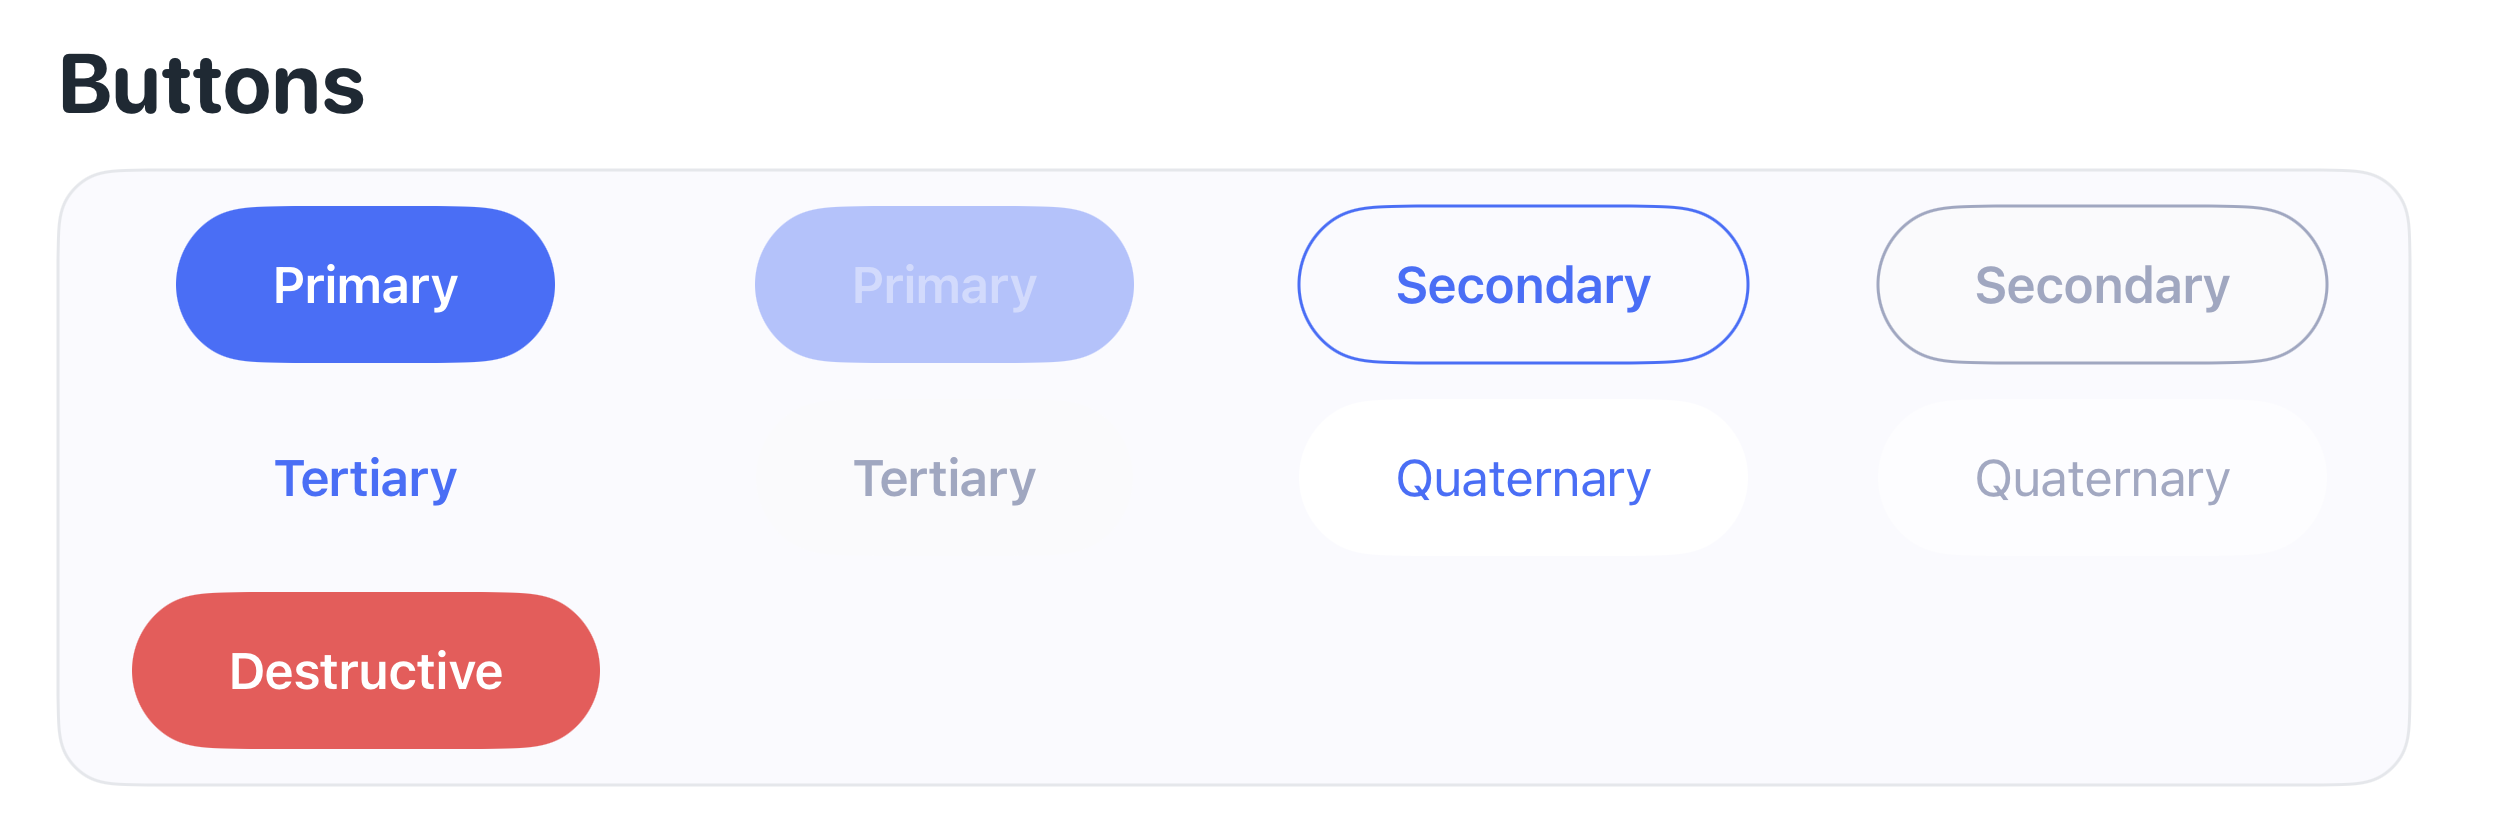
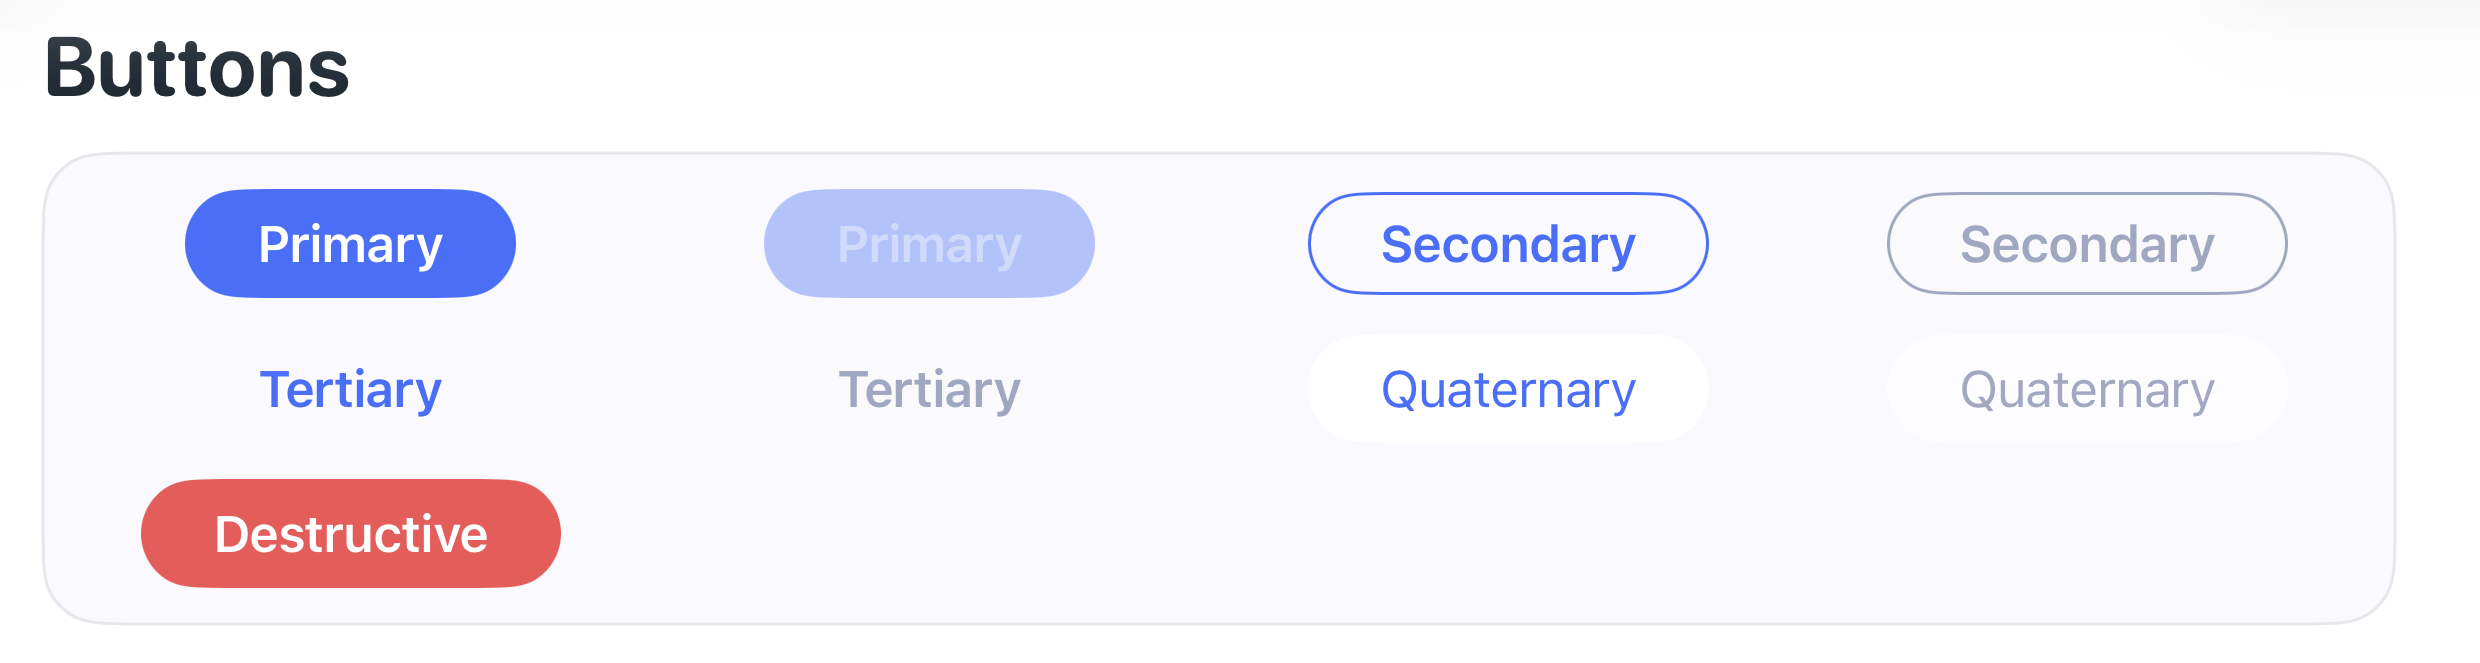
feature: add button title text roles (#16)

diff --git a/Sources/GentleDesignSystem/GentleDesignSystem.swift b/Sources/GentleDesignSystem/GentleDesignSystem.swift
@@ -39,6 +39,12 @@ public enum GentleTextRole: String, Identifiable, Codable, Sendable, CaseIterabl
     case footnote_s
     case caption_s
     case caption2_s
+
+    // Button titles – semantic roles for button text
+    case primaryButtonTitle_m
+    case secondaryButtonTitle_m
+    case tertiaryButtonTitle_m
+    case quaternaryButtonTitle_m
 }
 
 public enum GentleTextRamp: String, Codable, Sendable { case xxl, xl, l, ml, m, ms, s }
@@ -50,7 +56,8 @@ public extension GentleTextRole {
         case .title_xl: return .xl
         case .title2_l: return .l
         case .title3_ml: return .ml
-        case .headline_m, .body_m, .bodySecondary_m, .monoCode_m: return .m
+        case .headline_m, .body_m, .bodySecondary_m, .monoCode_m,
+             .primaryButtonTitle_m, .secondaryButtonTitle_m, .tertiaryButtonTitle_m, .quaternaryButtonTitle_m: return .m
         case .callout_ms, .subheadline_ms: return .ms
         case .footnote_s, .caption_s, .caption2_s: return .s
         }
@@ -72,6 +79,10 @@ public extension GentleTextRole {
         case .footnote_s: return "Footnote"
         case .caption_s: return "Caption"
         case .caption2_s: return "Caption 2"
+        case .primaryButtonTitle_m: return "Primary Button Title"
+        case .secondaryButtonTitle_m: return "Secondary Button Title"
+        case .tertiaryButtonTitle_m: return "Tertiary Button Title"
+        case .quaternaryButtonTitle_m: return "Quaternary Button Title"
         }
     }
 }
@@ -342,6 +353,23 @@ public extension GentleDesignSystemSpec {
             pointSize: 17, weight: .regular, design: .default, width: nil,
             relativeTo: .body, lineSpacing: 3, colorRole: .textPrimary
         )
+        // Button titles – use default (not serif) for buttons
+        typo.roles[GentleTextRole.primaryButtonTitle_m.rawValue] = .init(
+            pointSize: 17, weight: .semibold, design: .default, width: nil,
+            relativeTo: .headline, colorRole: .textPrimary
+        )
+        typo.roles[GentleTextRole.secondaryButtonTitle_m.rawValue] = .init(
+            pointSize: 17, weight: .semibold, design: .default, width: nil,
+            relativeTo: .headline, colorRole: .textPrimary
+        )
+        typo.roles[GentleTextRole.tertiaryButtonTitle_m.rawValue] = .init(
+            pointSize: 17, weight: .semibold, design: .default, width: nil,
+            relativeTo: .headline, colorRole: .textPrimary
+        )
+        typo.roles[GentleTextRole.quaternaryButtonTitle_m.rawValue] = .init(
+            pointSize: 17, weight: .regular, design: .default, width: nil,
+            relativeTo: .body, colorRole: .textPrimary
+        )
         spec.typography = typo
         return spec
     }()
@@ -392,6 +420,23 @@ public extension GentleDesignSystemSpec {
         typo.roles[GentleTextRole.body_m.rawValue] = .init(
             pointSize: 16, weight: .regular, design: .default, width: nil,
             relativeTo: .body, lineSpacing: 3, colorRole: .textPrimary
+        )
+        // Button titles – clean default design with medium weight
+        typo.roles[GentleTextRole.primaryButtonTitle_m.rawValue] = .init(
+            pointSize: 16, weight: .medium, design: .default, width: nil,
+            relativeTo: .headline, colorRole: .textPrimary
+        )
+        typo.roles[GentleTextRole.secondaryButtonTitle_m.rawValue] = .init(
+            pointSize: 16, weight: .medium, design: .default, width: nil,
+            relativeTo: .headline, colorRole: .textPrimary
+        )
+        typo.roles[GentleTextRole.tertiaryButtonTitle_m.rawValue] = .init(
+            pointSize: 16, weight: .medium, design: .default, width: nil,
+            relativeTo: .headline, colorRole: .textPrimary
+        )
+        typo.roles[GentleTextRole.quaternaryButtonTitle_m.rawValue] = .init(
+            pointSize: 16, weight: .regular, design: .default, width: nil,
+            relativeTo: .body, colorRole: .textPrimary
         )
         spec.typography = typo
         return spec
@@ -456,6 +501,23 @@ public extension GentleDesignSystemSpec {
             pointSize: 15, weight: .regular, design: .rounded, width: nil,
             relativeTo: .subheadline, colorRole: .textSecondary
         )
+        // Button titles – rounded design to match the soft theme
+        typo.roles[GentleTextRole.primaryButtonTitle_m.rawValue] = .init(
+            pointSize: 17, weight: .semibold, design: .rounded, width: nil,
+            relativeTo: .headline, colorRole: .textPrimary
+        )
+        typo.roles[GentleTextRole.secondaryButtonTitle_m.rawValue] = .init(
+            pointSize: 17, weight: .semibold, design: .rounded, width: nil,
+            relativeTo: .headline, colorRole: .textPrimary
+        )
+        typo.roles[GentleTextRole.tertiaryButtonTitle_m.rawValue] = .init(
+            pointSize: 17, weight: .semibold, design: .rounded, width: nil,
+            relativeTo: .headline, colorRole: .textPrimary
+        )
+        typo.roles[GentleTextRole.quaternaryButtonTitle_m.rawValue] = .init(
+            pointSize: 17, weight: .regular, design: .rounded, width: nil,
+            relativeTo: .body, colorRole: .textPrimary
+        )
         spec.typography = typo
         return spec
     }()
@@ -515,6 +577,23 @@ public extension GentleDesignSystemSpec {
             pointSize: 16, weight: .regular, design: .serif, width: nil,
             relativeTo: .callout, colorRole: .textSecondary
         )
+        // Button titles – use default (not serif) for buttons
+        typo.roles[GentleTextRole.primaryButtonTitle_m.rawValue] = .init(
+            pointSize: 17, weight: .bold, design: .default, width: nil,
+            relativeTo: .headline, colorRole: .textPrimary
+        )
+        typo.roles[GentleTextRole.secondaryButtonTitle_m.rawValue] = .init(
+            pointSize: 17, weight: .bold, design: .default, width: nil,
+            relativeTo: .headline, colorRole: .textPrimary
+        )
+        typo.roles[GentleTextRole.tertiaryButtonTitle_m.rawValue] = .init(
+            pointSize: 17, weight: .semibold, design: .default, width: nil,
+            relativeTo: .headline, colorRole: .textPrimary
+        )
+        typo.roles[GentleTextRole.quaternaryButtonTitle_m.rawValue] = .init(
+            pointSize: 17, weight: .regular, design: .default, width: nil,
+            relativeTo: .body, colorRole: .textPrimary
+        )
         spec.typography = typo
         return spec
     }()
@@ -569,6 +648,23 @@ public extension GentleDesignSystemSpec {
         typo.roles[GentleTextRole.monoCode_m.rawValue] = .init(
             pointSize: 14, weight: .regular, design: .monospaced, width: nil,
             relativeTo: .body, letterSpacing: 0, colorRole: .textPrimary
+        )
+        // Button titles – condensed default design (monospaced would be too wide for buttons)
+        typo.roles[GentleTextRole.primaryButtonTitle_m.rawValue] = .init(
+            pointSize: 15, weight: .semibold, design: .default, width: .condensed,
+            relativeTo: .headline, colorRole: .textPrimary
+        )
+        typo.roles[GentleTextRole.secondaryButtonTitle_m.rawValue] = .init(
+            pointSize: 15, weight: .semibold, design: .default, width: .condensed,
+            relativeTo: .headline, colorRole: .textPrimary
+        )
+        typo.roles[GentleTextRole.tertiaryButtonTitle_m.rawValue] = .init(
+            pointSize: 15, weight: .semibold, design: .default, width: .condensed,
+            relativeTo: .headline, colorRole: .textPrimary
+        )
+        typo.roles[GentleTextRole.quaternaryButtonTitle_m.rawValue] = .init(
+            pointSize: 15, weight: .regular, design: .default, width: .condensed,
+            relativeTo: .body, colorRole: .textPrimary
         )
         spec.typography = typo
         return spec
@@ -625,6 +721,23 @@ public extension GentleDesignSystemSpec {
             pointSize: 17, weight: .medium, design: .default, width: nil,
             relativeTo: .body, lineSpacing: 2, colorRole: .textSecondary
         )
+        // Button titles – bold/heavy weights to match the bold theme
+        typo.roles[GentleTextRole.primaryButtonTitle_m.rawValue] = .init(
+            pointSize: 17, weight: .heavy, design: .default, width: nil,
+            relativeTo: .headline, colorRole: .textPrimary
+        )
+        typo.roles[GentleTextRole.secondaryButtonTitle_m.rawValue] = .init(
+            pointSize: 17, weight: .bold, design: .default, width: nil,
+            relativeTo: .headline, colorRole: .textPrimary
+        )
+        typo.roles[GentleTextRole.tertiaryButtonTitle_m.rawValue] = .init(
+            pointSize: 17, weight: .bold, design: .default, width: nil,
+            relativeTo: .headline, colorRole: .textPrimary
+        )
+        typo.roles[GentleTextRole.quaternaryButtonTitle_m.rawValue] = .init(
+            pointSize: 17, weight: .medium, design: .default, width: nil,
+            relativeTo: .body, colorRole: .textPrimary
+        )
         spec.typography = typo
         return spec
     }()
@@ -679,6 +792,23 @@ public extension GentleDesignSystemSpec {
         typo.roles[GentleTextRole.bodySecondary_m.rawValue] = .init(
             pointSize: 17, weight: .light, design: .default, width: nil,
             relativeTo: .body, lineSpacing: 4, letterSpacing: 0.2, colorRole: .textSecondary
+        )
+        // Button titles – light/regular weights with letter spacing for elegance
+        typo.roles[GentleTextRole.primaryButtonTitle_m.rawValue] = .init(
+            pointSize: 17, weight: .regular, design: .default, width: nil,
+            relativeTo: .headline, letterSpacing: 0.5, colorRole: .textPrimary
+        )
+        typo.roles[GentleTextRole.secondaryButtonTitle_m.rawValue] = .init(
+            pointSize: 17, weight: .regular, design: .default, width: nil,
+            relativeTo: .headline, letterSpacing: 0.5, colorRole: .textPrimary
+        )
+        typo.roles[GentleTextRole.tertiaryButtonTitle_m.rawValue] = .init(
+            pointSize: 17, weight: .regular, design: .default, width: nil,
+            relativeTo: .headline, letterSpacing: 0.3, colorRole: .textPrimary
+        )
+        typo.roles[GentleTextRole.quaternaryButtonTitle_m.rawValue] = .init(
+            pointSize: 17, weight: .light, design: .default, width: nil,
+            relativeTo: .body, letterSpacing: 0.2, colorRole: .textPrimary
         )
         spec.typography = typo
         return spec
@@ -754,6 +884,23 @@ public extension GentleDesignSystemSpec {
         typo.roles[GentleTextRole.caption2_s.rawValue] = .init(
             pointSize: 9, weight: .regular, design: .default, width: .condensed,
             relativeTo: .caption2, colorRole: .textTertiary
+        )
+        // Button titles – condensed design to match the compact theme
+        typo.roles[GentleTextRole.primaryButtonTitle_m.rawValue] = .init(
+            pointSize: 14, weight: .semibold, design: .default, width: .condensed,
+            relativeTo: .headline, colorRole: .textPrimary
+        )
+        typo.roles[GentleTextRole.secondaryButtonTitle_m.rawValue] = .init(
+            pointSize: 14, weight: .semibold, design: .default, width: .condensed,
+            relativeTo: .headline, colorRole: .textPrimary
+        )
+        typo.roles[GentleTextRole.tertiaryButtonTitle_m.rawValue] = .init(
+            pointSize: 14, weight: .semibold, design: .default, width: .condensed,
+            relativeTo: .headline, colorRole: .textPrimary
+        )
+        typo.roles[GentleTextRole.quaternaryButtonTitle_m.rawValue] = .init(
+            pointSize: 14, weight: .regular, design: .default, width: .condensed,
+            relativeTo: .body, colorRole: .textPrimary
         )
         spec.typography = typo
         return spec
@@ -921,7 +1068,7 @@ public extension GentleButtonTokens {
         roles: [
             GentleButtonRole.primary.rawValue: .init(
                 shape: .pill,
-                textRole: .headline_m,
+                textRole: .primaryButtonTitle_m,
                 backgroundRole: .primaryCTA,
                 labelColorRole: .onPrimaryCTA,
                 borderRole: nil,
@@ -931,7 +1078,7 @@ public extension GentleButtonTokens {
             ),
             GentleButtonRole.secondary.rawValue: .init(
                 shape: .pill,
-                textRole: .headline_m,
+                textRole: .secondaryButtonTitle_m,
                 backgroundRole: .surface,
                 labelColorRole: .primaryCTA,
                 borderRole: .primaryCTA,
@@ -941,7 +1088,7 @@ public extension GentleButtonTokens {
             ),
             GentleButtonRole.tertiary.rawValue: .init(
                 shape: .pill,
-                textRole: .headline_m,
+                textRole: .tertiaryButtonTitle_m,
                 backgroundRole: .surface,
                 labelColorRole: .primaryCTA,
                 borderRole: nil,
@@ -951,7 +1098,7 @@ public extension GentleButtonTokens {
             ),
             GentleButtonRole.quaternary.rawValue: .init(
                 shape: .pill,
-                textRole: .body_m,
+                textRole: .quaternaryButtonTitle_m,
                 backgroundRole: .background,
                 labelColorRole: .primaryCTA,
                 borderRole: nil,
@@ -961,7 +1108,7 @@ public extension GentleButtonTokens {
             ),
             GentleButtonRole.destructive.rawValue: .init(
                 shape: .pill,
-                textRole: .headline_m,
+                textRole: .primaryButtonTitle_m,
                 backgroundRole: .destructive,
                 labelColorRole: .onPrimaryCTA,
                 borderRole: nil,
@@ -1176,6 +1323,24 @@ public extension GentleTypographyTokens {
         dict[GentleTextRole.caption2_s.rawValue] = .init(
             pointSize: 11, weight: .regular, design: .default, width: nil,
             relativeTo: .caption2, colorRole: .textTertiary
+        )
+
+        // Button titles – default to same size as headline, semibold weight, default design (not serif)
+        dict[GentleTextRole.primaryButtonTitle_m.rawValue] = .init(
+            pointSize: 17, weight: .semibold, design: .default, width: nil,
+            relativeTo: .headline, colorRole: .textPrimary
+        )
+        dict[GentleTextRole.secondaryButtonTitle_m.rawValue] = .init(
+            pointSize: 17, weight: .semibold, design: .default, width: nil,
+            relativeTo: .headline, colorRole: .textPrimary
+        )
+        dict[GentleTextRole.tertiaryButtonTitle_m.rawValue] = .init(
+            pointSize: 17, weight: .semibold, design: .default, width: nil,
+            relativeTo: .headline, colorRole: .textPrimary
+        )
+        dict[GentleTextRole.quaternaryButtonTitle_m.rawValue] = .init(
+            pointSize: 17, weight: .regular, design: .default, width: nil,
+            relativeTo: .body, colorRole: .textPrimary
         )
 
         return GentleTypographyTokens(roles: dict)

diff --git a/Sources/GentleDesignSystem/GentleDesignFoundationView.swift b/Sources/GentleDesignSystem/GentleDesignFoundationView.swift
@@ -43,6 +43,10 @@ public struct GentleDesignTypographySection: View {
         ("body_m", .body_m),
         ("bodySecondary_m", .bodySecondary_m),
         ("monoCode_m", .monoCode_m),
+        ("primaryButtonTitle_m", .primaryButtonTitle_m),
+        ("secondaryButtonTitle_m", .secondaryButtonTitle_m),
+        ("tertiaryButtonTitle_m", .tertiaryButtonTitle_m),
+        ("quaternaryButtonTitle_m", .quaternaryButtonTitle_m),
         ("callout_ms", .callout_ms),
         ("subheadline_ms", .subheadline_ms),
         ("footnote_s", .footnote_s),
@@ -71,15 +75,15 @@ public struct GentleDesignTypographySection: View {
             .gentleSurface(.card)
         }
         .frame(maxWidth: .infinity, alignment: .leading)
-        .task {
-            let spec = design.theme.spec
-            do {
-                let encodedJSONString = try spec.encodedJSONString()
-                print("spec: \(encodedJSONString)")
-            } catch {
-                print("jritchey: \(error)")
-            }
-        }
+//        .task {
+//            let spec = design.theme.spec
+//            do {
+//                let encodedJSONString = try spec.encodedJSONString()
+//                print("spec: \(encodedJSONString)")
+//            } catch {
+//                print("jritchey: \(error)")
+//            }
+//        }
     }
 }
 

diff --git a/README.md b/README.md
@@ -12,13 +12,13 @@ A lightweight, token-driven SwiftUI design system with built-in Dark Mode and Dy
 
 GentleDesignSystem is designed to feel *native*, *predictable*, and *composable*, while still giving you a centralized place to evolve typography, color, spacing, and surface behavior over time.
 
+![Demo animation](docs/README_assets/Typography.gif)
+
 **See it in action:** Open `Demo/GentleDesignSystemDemo.xcodeproj` to explore all components. The demo app also lets you update and share JSON specs via a ShareSheet.
 
 <img src="docs/README_assets/Typography1.png" alt="GentleDesignSystem demo – page 1" width="800" />
 <img src="docs/README_assets/Typography2.png" alt="GentleDesignSystem demo – page 2" width="800" />
 <img src="docs/README_assets/Typography3.png" alt="GentleDesignSystem demo – page 3" width="800" />
-
-![Demo animation](docs/README_assets/Typography.gif)
 
 ---
 
